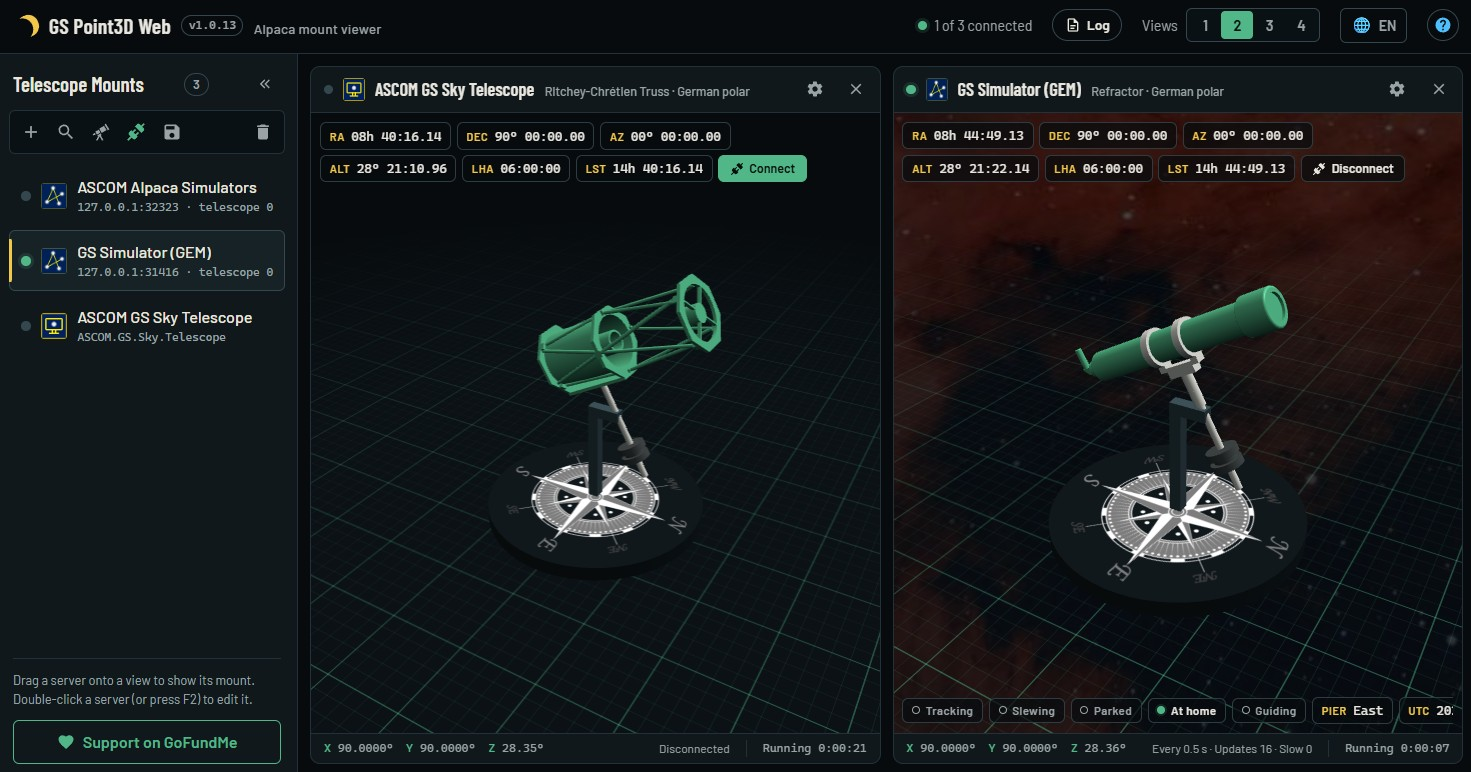
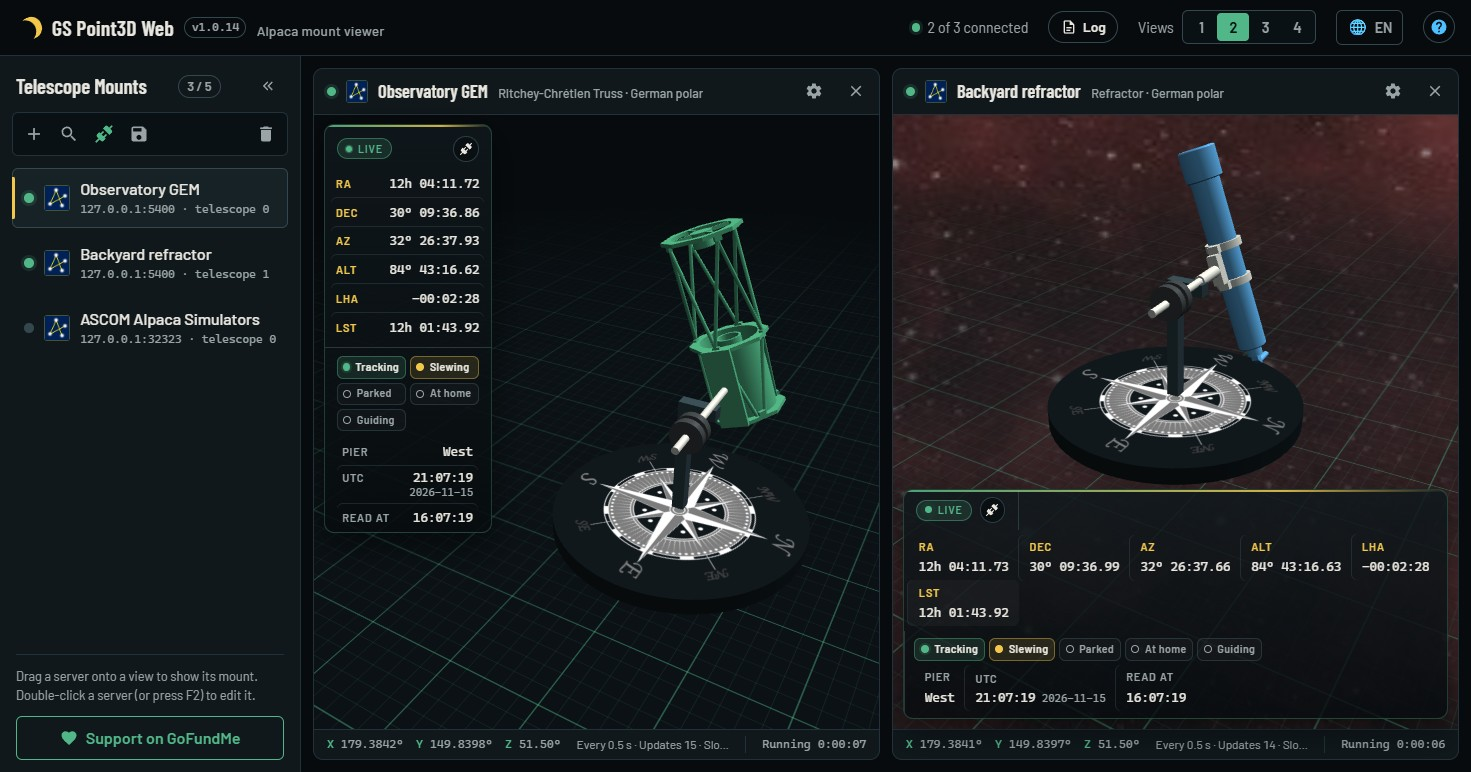
Update the README screenshot, and show Read at to the second
The new screenshot shows the coordinates panel down the left of one view and
across the bottom of another. Read at drops its milliseconds, which didn't fit
in a panel down the side.

diff --git a/README.md b/README.md
@@ -7,7 +7,7 @@ servers on the network, or to ASCOM COM drivers on the computer it runs on. It t
 mount as a live 3D model that moves as the mount does, so you can see where the telescope is
 pointing from any browser.
 
-![GS Point3D Web showing a German equatorial mount connected to the ASCOM Alpaca Simulators](docs/Point3dWeb_1.jpg)
+![GS Point3D Web showing two German equatorial mounts, one with its coordinates and mount state in a panel down the left of the view and one with them across the bottom](docs/Point3dWeb_1.jpg)
 
 ## Features
 
